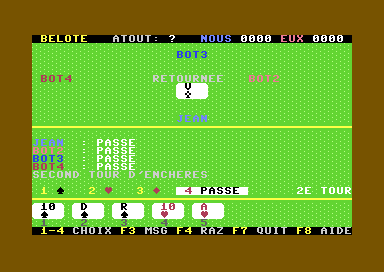
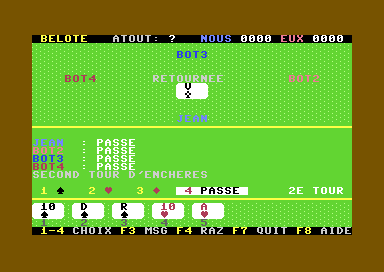
Version 2.0 : Édition rapide coupée sur Windows, captures et README (salons), v1.9 devenue v2.0
Client PC : l'Édition rapide de la console Windows est coupée pour la fenêtre
du jeu (un clic figeait l'affichage). Démos compilées avec VERSION.
Captures refaites (table, enchères, liste des salons) en français et en
anglais ; README : choisir son salon, F3 pour le serveur.

diff --git a/pc/belote_lan.py b/pc/belote_lan.py
@@ -26,7 +26,7 @@ import time
 import unicodedata
 from pathlib import Path
 
-VERSION = "1.8"
+VERSION = "2.0"
 SERVEUR_DEFAUT = "51.38.50.79"
 PORT_DEFAUT = 6464
 LARGEUR, HAUTEUR = 80, 24
@@ -1712,7 +1712,12 @@ class App:
 
 
 def activer_ansi_windows() -> None:
-    """Console Windows : séquences ANSI (VT) et sortie UTF-8."""
+    """Console Windows : séquences ANSI (VT), sortie UTF-8, sans Édition rapide.
+
+    Édition rapide : un clic dans la fenêtre commence une sélection, et Windows
+    bloque alors tout affichage du programme, qui paraît figé (le jeu s'arrête
+    pendant son tour). On la coupe pour cette fenêtre seulement.
+    """
     if os.name != "nt":
         return
     try:
@@ -1723,6 +1728,10 @@ def activer_ansi_windows() -> None:
         if k.GetConsoleMode(h, ctypes.byref(mode)):
             k.SetConsoleMode(h, mode.value | 0x0004)   # ENABLE_VIRTUAL_TERMINAL_PROCESSING
         k.SetConsoleOutputCP(65001)
+        h = k.GetStdHandle(-10)
+        if k.GetConsoleMode(h, ctypes.byref(mode)):
+            # sans ENABLE_QUICK_EDIT_MODE (0x40), avec ENABLE_EXTENDED_FLAGS (0x80)
+            k.SetConsoleMode(h, (mode.value & ~0x0040) | 0x0080)
     except Exception:
         pass
 

diff --git a/tools/duel_bots.py b/tools/duel_bots.py
@@ -40,7 +40,7 @@ def jouer(paquet: list[int], donneur: int, strategies) -> tuple[int, int] | None
     while d.phase is Phase.ENCHERES:
         p = d.joueur
         s = strategies[p % 2]
-        # Avant la v1.9, les bots ne recevaient que la couleur de la retournée.
+        # Avant la v2.0, les bots ne recevaient que la couleur de la retournée.
         ancienne = "couleur_retournee" in inspect.signature(s.choisir_enchere).parameters
         choix = s.choisir_enchere(d.mains[p], d.tour_encheres,
                                   couleur(d.retournee) if ancienne else d.retournee)

diff --git a/server/belote/bots.py b/server/belote/bots.py
@@ -72,7 +72,7 @@ def choisir_carte(main: list[int], pli: list[tuple[int, int]], atout: int, place
 
     jouees : cartes déjà posées dans la donne (pli en cours compris ou non). Le bot
     s'en souvient pour entamer la plus forte carte restante d'une couleur.
-    preneur : place du preneur (None : inconnu, comme avant la v1.9).
+    preneur : place du preneur (None : inconnu, comme avant la v2.0).
 
     Essayé puis écarté (simulation de 20 000 donnes contre l'ancienne stratégie) :
     gagner un pli avec une carte que personne ne peut battre (atout maître) plutôt

diff --git a/SPEC.md b/SPEC.md
@@ -229,7 +229,7 @@ Seats go round P0 → P1 → P2 → P3 → P0, that is SOUTH → EAST → NORTH 
 - After the start, the former host leaving does not stop the game. The new host can start a new game (F5) at the end of the game; they do not restart the game in progress.
 
 - The limit is four human connections. A fifth connection (and any after it) is refused with ERR TABLE PLEINE, then closed by the server; the C64 shows "TABLE FULL (4 PLAYERS): TRY LATER" on the connection screen. Bots do not count as human connections.
-- Server limits *(server v1.9)*, across all tables (planned for several rooms): 64 open connections at most, and 8 at most from one IP address (four C64s behind one router fit). Beyond that, the connection gets ERR TABLE PLEINE as soon as it opens, then is closed: the clients already released translate it ("try later"). Options `--max-connexions` and `--max-par-ip`.
+- Server limits *(server v2.0)*, across all tables (planned for several rooms): 64 open connections at most, and 8 at most from one IP address (four C64s behind one router fit). Beyond that, the connection gets ERR TABLE PLEINE as soon as it opens, then is closed: the clients already released translate it ("try later"). Options `--max-connexions` and `--max-par-ip`.
 
 ### 4.3 Names, replacement and presence
 
@@ -237,7 +237,7 @@ Seats go round P0 → P1 → P2 → P3 → P0, that is SOUTH → EAST → NORTH 
 
 - Reserved names: BOT and BOT followed by digits (BOT1 to BOT4 name the bots on screen). The C64 refuses them before connecting; the server answers ERR NOM RESERVE without closing the connection, and a duplicate suffix never produces such a name. The C64 shows "NAME RESERVED FOR BOTS: CHOOSE ANOTHER" and puts the cursor back on the NAME field.
 
-- Idle player (3 minutes by default, set by the host with F1): a bot takes over the seat. There are no spectators; an idle user who was released must reconnect. Before the game starts *(server v1.9)*, a human who sends nothing for 10 minutes (`--delai-attente`, in seconds) gives up their seat the same way, with the same messages: a waiting table can no longer be held by silent connections. Each table checks this for itself.
+- Idle player (3 minutes by default, set by the host with F1): a bot takes over the seat. There are no spectators; an idle user who was released must reconnect. Before the game starts *(server v2.0)*, a human who sends nothing for 10 minutes (`--delai-attente`, in seconds) gives up their seat the same way, with the same messages: a waiting table can no longer be held by silent connections. Each table checks this for itself.
 
 - On reconnection, the user gets back their seat and the hand still held by the bot if that seat is still available. If another human has it, a free bot seat is given; if there is none, the reconnection is refused.
 
@@ -247,7 +247,7 @@ Seats go round P0 → P1 → P2 → P3 → P0, that is SOUTH → EAST → NORTH 
 
 ### 4.4 Bot strategy
 
-Bots are computed by the server and only act after the start. They always play a legal move (section 5.3) *(v1.9)*:
+Bots are computed by the server and only act after the start. They always play a legal move (section 5.3) *(v2.0)*:
 
 - **Bidding**: the hand is valued for each possible trump, the turned-up card included (jack 20, 9 14, ace 11, 10 10, king 4, queen 3, 8 and 7 2; ace outside trumps 10, a 10 outside trumps guarded by its ace 5, belote 10). The bot takes if it is worth at least 35: in the first round in the turned-up card's suit, in the second in the best of the other three; otherwise it passes.
 - **Taker**: when leading, it draws the opponents' trumps with its master trump while some are still out, or with its smallest trump if it holds at least three.
@@ -257,12 +257,12 @@ Bots are computed by the server and only act after the start. They always play a
 
 These choices are measured with `tools/duel_bots.py` (each deal played twice, teams swapped): 53.9% of the points against the v1.8 bots over 200,000 deals. More careful when bidding, four bots all pass in 18% of deals (redealt). Each bot action (bid or card) is played after a fixed delay of **1 second** *(v4)*, so that players can follow.
 
-### 4.5 Rooms *(v1.9)*
+### 4.5 Rooms *(v2.0)*
 
 The server has several independent tables, the rooms, numbered 1 to 9 (9 by default, `--salons N` at startup). Each room has its own seats, host, game, bots, chat and idle check; the connection limits (4.3) apply to the whole server.
 
 - Before JOIN, a connection may ask for the list: `SALONS` gets `SALONS N`, then one line `SALON I H STATE` per room (humans seated, state of its table). It then has 5 minutes to choose, instead of the 60 seconds of a connection without JOIN.
-- `JOIN NAME I` joins room I; `JOIN NAME` without a number joins room 1, which is what clients from before v1.9 do, so they keep working. A name is only unique within its room.
+- `JOIN NAME I` joins room I; `JOIN NAME` without a number joins room 1, which is what clients from before v2.0 do, so they keep working. A name is only unique within its room.
 - Chosen room full: `ERR TABLE PLEINE`, and the connection stays open to choose another; invalid number: `ERR SALON`. A JOIN without a number on a full room 1 is refused then closed, as before.
 - The C64 and the PC client ask for the list after connecting and show it (number, players out of 4, WAITING or PLAYING); you choose with the arrows, the joystick or a digit, RETURN joins, F7 (Esc on PC) goes back to the name. A server without rooms answers ERR to SALONS: the client then sends JOIN without a number.
 - Server console: `RAZ` wipes the game of every room, `RAZ N` that of room N.
@@ -428,7 +428,7 @@ POINTS(E), SCORE(E), RESERVE ; E=0 : P0+P2, E=1 : P1+P3
 
 | Message | Trigger | Meaning / server check |
 |---|---|---|
-| SALONS *(v1.9)* | After connecting | Room list: SALONS N, then SALON I H STATE per room (4.5). |
+| SALONS *(v2.0)* | After connecting | Room list: SALONS N, then SALON I H STATE per room (4.5). |
 | JOIN NAME [I] | RETURN after typing the name (and choosing the room) | Join; name of 6 characters at most, uniqueness enforced by the server; I: room (1 if no number). |
 | LANCER | F2 | Host only, in ATTENTE; otherwise ERR CHEF SEUL or ERR DEJA LANCEE. |
 | PARAM CIBLE N *(v3)* | F1 then setting | Host only, in ATTENTE; N from 500 to 5000. |
@@ -656,9 +656,9 @@ These decisions override contradictory or older wording.
 
 ## 12. To do / open questions
 
-- **Bots** — Strengthened in v1.9 (4.4): bidding on the hand's value, trumps drawn by the taker, partner's trick loaded. Next ideas: count the fallen trumps to know when to ruff, the last-trick 10, play according to the taker's seat; to be measured with tools/duel_bots.py.
+- **Bots** — Strengthened in v2.0 (4.4): bidding on the hand's value, trumps drawn by the taker, partner's trick loaded. Next ideas: count the fallen trumps to know when to ruff, the last-trick 10, play according to the taker's seat; to be measured with tools/duel_bots.py.
 
-- **Several tables** — Done in v1.9: 9 rooms (4.5). Beyond 9, the C64 would need two columns or pages, and it is short of memory.
+- **Several tables** — Done in v2.0: 9 rooms (4.5). Beyond 9, the C64 would need two columns or pages, and it is short of memory.
 
 - **Accessibility** — A C64 Ultimate (or Ultimate 64 / Ultimate-II+) is needed: VICE does not emulate the Command Interface. A version using VICE's emulated network (RR-Net) would allow trying it without the hardware.
 
@@ -704,7 +704,8 @@ These decisions override contradictory or older wording.
 | 36 | Rejected experiment: a wood-grain border. The VIC puts a single colour in the border; a raster interrupt changed it at the start of chosen lines (horizontal brown, orange and black bands, written during horizontal blanking, bit 8 of the compare line kept in $D011). Nine veins: hardly evocative. Thirty: a nice pattern, but 30% of the CPU (interrupt entry and exit through the KERNAL, waiting for the line), the game lags. Seventeen: about 15%. Stéphan preferred to go back to the plain brown border. Lessons noted: the handler runs about 85 cycles after the trigger; at least four lines between two changes. | Nothing published; C64 client v1.8 put back on the C64. |
 | 37 | Symmetrical table, reported by Stéphan (BOT2 offset in the EAST, BOT4 well placed in the WEST): EAST card moved from column 28 to 32 (four columns from the edge like the WEST), WEST name starting at the left edge of its card, EAST name ending at the right edge of its own (a name with "(HOST)" stays in its box), NORTH and SOUTH centred on their card, end-of-round card centred (columns 10 to 29 instead of 7 to 26). SID player: the jump back to the previous interrupt vector is a direct jmp whose address is patched in at installation, instead of jmp (ancien); ld65 had flagged that vector straddling two pages ($xxFF), where the 6502 reads a wrong address (crash as soon as music plays), a trap that depended on the program's size. Checked in VICE (waiting, playing, end of round) and on the C64. | C64 client v1.8 fixed (15 November 2026), version number unchanged: nobody had tried the v1.8 PRG yet. belote_lan.prg replaced in the v1.8 release, notes updated, tag unchanged. Server and PC client unchanged. |
 | 38 | C64 client touch-ups requested by Stéphan. Log and chat (lines 12 to 19, between the yellow lines) on plain green, without the felt dots (ecran_uni(), game screen only). Trick gathering twice as slow (10 frames per card, the pile leaving in 16 or 28 frames). "ROUND 1" and "ROUND 2" end at column 38, as the bid choices start at column 1. Connection screen: only the NAME is shown, centred; F3 opens the slightly hidden server setting, two fields IP (29 characters) and PORT (digits, 6464 if empty); key bar "RETURN CONFIRM  F1 LANGUAGE  F3 SERVER"; languages centred. Memory: the program overflowed by 28 bytes (the real margin was 48 bytes, not 5.5 KB as noted); cc65's sprintf (1.3 KB with vsnprintf) replaced by fmt() in ecran.c (%s %c %u %d, width, 0 and -), screens identical to the pixel in VICE; about 430 bytes of margin. Game on the public server the same day, Stéphan and Claude against GRAF (Windows client) and a bot: 1051 to 609; GRAF's client froze during his turn and was restarted, most likely the Windows console's QuickEdit mode (a click in the window blocks output): a fix is possible, judged unnecessary for now. | C64 client v1.8 (15 November 2026), version number unchanged: belote_lan.prg replaced in the v1.8 release, notes updated, tag unchanged. Server and PC client unchanged. |
-| 39 | Server flaws found on 15 November (after connection scans on the public server), fixed with several rooms in mind. Unlimited connections: 3000 connections from a single IP were all accepted; the whole server (all tables together) now accepts 64 at most, and 8 at most per IP (four C64s behind one router fit), Limites class in __main__.py, options --max-connexions and --max-par-ip. Beyond that, ERR TABLE PLEINE as soon as the connection opens, then it is closed: a separate code (SERVEUR PLEIN) would have shown "name refused" on the PC client already released. Replayed: 8 accepted, 2992 refused. Squatted table: four silent JOINs held the table with no limit (nobody was judged idle before the game started); in ATTENTE, each table now gives back the seat of a human silent for 10 minutes (--delai-attente), with the messages of idleness in play, which the clients already translate. Clients unchanged. 3 tests added. | Server v1.9 (15 November 2026), committed, not yet published. |
+| 39 | Server flaws found on 15 November (after connection scans on the public server), fixed with several rooms in mind. Unlimited connections: 3000 connections from a single IP were all accepted; the whole server (all tables together) now accepts 64 at most, and 8 at most per IP (four C64s behind one router fit), Limites class in __main__.py, options --max-connexions and --max-par-ip. Beyond that, ERR TABLE PLEINE as soon as the connection opens, then it is closed: a separate code (SERVEUR PLEIN) would have shown "name refused" on the PC client already released. Replayed: 8 accepted, 2992 refused. Squatted table: four silent JOINs held the table with no limit (nobody was judged idle before the game started); in ATTENTE, each table now gives back the seat of a human silent for 10 minutes (--delai-attente), with the messages of idleness in play, which the clients already translate. Clients unchanged. 3 tests added. | Server v2.0 (15 November 2026), committed, not yet published. |
 | 40 | Several rooms, on the multi-salon branch: 9 numbered rooms (--salons 1 to 9), each a full Table, dispatched by the Salons class (server/belote/salons.py). Compatible protocol: SALONS gives the list (SALONS N, then SALON I H STATE), JOIN NAME I picks the room, JOIN NAME without a number goes to room 1 (older clients); chosen room full: ERR TABLE PLEINE without closing; ERR SALON for an invalid number; RAZ N on the console. C64: after the name, the room list (number, players out of 4, WAITING or PLAYING) with the joystick, the arrows or a digit, F7 to go back; with a server without rooms (ERR to SALONS), JOIN without a number; touche_connexion() shared by the name and room screens, which also watches the connection. Memory: C stack measured in VICE (RAM filled with $55, VICE's random noise turned off) at 58 bytes at most in every scenario, cut from 1.5 KB to 512 bytes; 44 bytes left. Stéphan's try: cut off after 60 s on the list (no-JOIN delay); a connection that asked for SALONS now has 5 minutes to choose (DELAI_LISTE), and the messages under the name are centred. PC client: the same room screen (Esc to go back). Demo scenario 8 (room list). 17 tests added. | multi-salon branch (15 November 2026), tried on the C64 with a local server. |
 | 41 | Stronger bots, on the bots branch. Tool tools/duel_bots.py: the current bots against those of a git version (main by default), each deal played twice, teams swapped, to remove the luck of the cards (4,000 deals a second). Bidding: choisir_enchere gets the turned-up card (not just its suit) and values the hand for each trump (jack 20, 9 14, ace 11..., ace outside trumps 10, belote 10); takes from 35 (tried from 20 to 50: 50 lost, 35 the best), +1.8% of points. Play: load the partner's trick when last (+1.3%), then third when the partner's card cannot be beaten in its suit, even at the risk of a ruff (+0.8%); the taker draws with its master trump, or its smallest with three trumps (+0.2% over 200,000 deals; the master trump alone gained nothing). Result: 53.9% of the points against the v1.8 bots (+13 points per deal, 200,000 deals). Among four bots, 18% of deals redealt (the old ones almost always took). choisir_carte also gets the taker. Bot tests rewritten (8). | bots branch (15 November 2026), server only. |
 | 42 | C64 memory: 45 bytes were left. The title image (4.4 KB) was only used at startup but took memory for good: it moves, with its decompressor, into cc65's ONCE segment; an assembler constructor (.constructor in c64/titre_dec.s) turns the screen off, sets the VIC bank, the brown border and green background, and decompresses the image at load time, before crt0 clears the variables; afterwards that space is used by the variables. titre() is called before ecran_init() (which overwrites the colour matrix), and ecran_init() turns the screen back on. Title screen, table and room list identical to the pixel in VICE. Margins: 1.7 KB for code (end of the ONCE segment below $C000), 4.7 KB for variables. Also tried: -Cl (static locals, re-initialised at each call), only +211 bytes, not kept. tools/titre.py generates the image into ONCE. | bots branch (15 November 2026). |
+| 43 | Version 2.0, to be spread: groups entries 39 to 42 (server flaws, 9 rooms, stronger bots, C64 memory). PC client: the Windows console's QuickEdit is turned off for the game window (a click froze the output, as for GRAF). Demos built with the version number (the top bar showed "V?"). Screenshots retaken in VICE, in French and English: table (chat on plain green), bidding, and the room list, added to the READMEs with how to choose a room. | C64 client, PC client and server v2.0 (15 November 2026). GitHub release v2.0; public server to be updated by Stéphan. |

diff --git a/README.md b/README.md
@@ -11,9 +11,9 @@ bidding on a turned-up card. The rules are built in (F8 shows them on the C64).
 
 ![Title screen](docs/titre.png)
 
-| Game table | Bidding, second round |
-|---|---|
-| ![Table](docs/table-en.png) | ![Bidding](docs/bidding-en.png) |
+| Choosing a room | Game table | Bidding, second round |
+|---|---|---|
+| ![Rooms](docs/salons-en.png) | ![Table](docs/table-en.png) | ![Bidding](docs/bidding-en.png) |
 
 ## What's inside
 
@@ -51,10 +51,12 @@ To start it:
 - or send it from a PC on the same network, if the Ultimate's REST API is enabled:
   `curl -X POST --data-binary @belote_lan.prg http://<ultimate-ip>/v1/runners:run_prg`.
 
-Press a key on the title screen, then **F1** on the connection screen to pick your language.
+Press a key on the title screen, then **F1** on the connection screen to pick your language. Type
+your name and press RETURN: the list of the server's rooms appears; pick one (joystick, arrows or
+a digit) and RETURN to sit down. **F3** on the connection screen changes the server (IP, PORT).
 
-**Limits**: the public server has a single 4-seat table; if it is full ("TABLE FULL"), try again
-later or run your own server (below). VICE cannot connect: it does not emulate the Ultimate's
+**Limits**: the public server has 9 rooms of 4 seats; if the room you pick is full ("TABLE FULL"),
+choose another one or run your own server (below). VICE cannot connect: it does not emulate the Ultimate's
 Command Interface. No C64 Ultimate? Use the PC client (below).
 
 **Your own server, without the repository**: the release also holds `belote-serveur-vX.Y.tar.gz`

diff --git a/README.fr.md b/README.fr.md
@@ -11,9 +11,9 @@ retournée. Les règles sont intégrées (F8 les affiche sur le C64).
 
 ![Écran titre](docs/titre.png)
 
-| Table de jeu | Enchères, second tour |
-|---|---|
-| ![Table](docs/table.png) | ![Enchères](docs/encheres.png) |
+| Choix du salon | Table de jeu | Enchères, second tour |
+|---|---|---|
+| ![Salons](docs/salons.png) | ![Table](docs/table.png) | ![Enchères](docs/encheres.png) |
 
 ## Ce qu'il y a dedans
 
@@ -52,9 +52,12 @@ Pour le lancer :
   `curl -X POST --data-binary @belote_lan.prg http://<ip-de-l-ultimate>/v1/runners:run_prg`.
 
 Appuyez sur une touche à l'écran titre, puis sur **F1** à l'écran de connexion pour choisir la langue.
+Tapez votre nom puis RETURN : la liste des salons du serveur s'affiche ; choisissez-en un (joystick,
+flèches ou chiffre) et RETURN pour vous asseoir. **F3** à l'écran de connexion change le serveur (IP,
+PORT).
 
-**Limites** : le serveur public n'a qu'une table de 4 places ; si elle est pleine (« TABLE PLEINE »),
-réessayez plus tard ou lancez votre propre serveur (ci-dessous). VICE ne peut pas se connecter : il
+**Limites** : le serveur public a 9 salons de 4 places ; si celui que vous choisissez est plein
+(« TABLE PLEINE »), prenez-en un autre ou lancez votre propre serveur (ci-dessous). VICE ne peut pas se connecter : il
 n'émule pas la Command Interface de l'Ultimate. Sans C64 Ultimate, prenez le client PC (ci-dessous).
 
 **Votre propre serveur, sans le dépôt** : la release contient aussi `belote-serveur-vX.Y.tar.gz`

diff --git a/protocol.fr.md b/protocol.fr.md
@@ -57,10 +57,10 @@ Autres cas :
 
 - Toute commande avant JOIN (sauf SALONS et LEAVE), ou un second JOIN, reçoit `ERR NOM`.
 - `JOIN NOM I` avec un salon plein reçoit `ERR TABLE PLEINE` sans fermeture (en choisir un autre) ;
-  numéro hors de 1 à N : `ERR SALON` (v1.9).
-- Table pleine, ou trop de connexions ouvertes (64 en tout, 8 depuis une même IP, serveur v1.9) :
+  numéro hors de 1 à N : `ERR SALON` (v2.0).
+- Table pleine, ou trop de connexions ouvertes (64 en tout, 8 depuis une même IP, serveur v2.0) :
   `ERR TABLE PLEINE`, puis le serveur ferme la connexion ; dans le second cas, dès l'ouverture.
-- Avant le lancement, un joueur muet pendant 10 minutes rend sa place (serveur v1.9) :
+- Avant le lancement, un joueur muet pendant 10 minutes rend sa place (serveur v2.0) :
   `INFO INACTIF : PLACE RENDUE AU BOT`, puis fermeture, comme pour l'inactivité en jeu.
 - Enchère mal placée à son tour (mauvaise couleur, ou ENCH pendant le jeu) et COUP pendant les
   enchères reçoivent `ERR COUP REFUSE`.

diff --git a/protocol.md b/protocol.md
@@ -63,10 +63,10 @@ Other cases:
 
 - Any command before JOIN (except SALONS and LEAVE), or a second JOIN, gets `ERR NOM`.
 - `JOIN NAME I` on a full room gets `ERR TABLE PLEINE` without closing (choose another);
-  a number outside 1 to N: `ERR SALON` (v1.9).
-- Table full, or too many open connections (64 in all, 8 from one IP, server v1.9):
+  a number outside 1 to N: `ERR SALON` (v2.0).
+- Table full, or too many open connections (64 in all, 8 from one IP, server v2.0):
   `ERR TABLE PLEINE`, then the server closes the connection; in the second case, as soon as it opens.
-- Before the game starts, a player silent for 10 minutes gives up their seat (server v1.9):
+- Before the game starts, a player silent for 10 minutes gives up their seat (server v2.0):
   `INFO INACTIF : PLACE RENDUE AU BOT`, then the connection is closed, as for idleness in play.
 - A misplaced bid on your turn (wrong suit, or ENCH during play) and COUP during bidding get
   `ERR COUP REFUSE`.

diff --git a/CLAUDE.md b/CLAUDE.md
@@ -48,7 +48,7 @@ francophones, anglais sous les noms principaux (README.md, SPEC.md, protocol.md,
 
 ## Mémoire du client (banque VIC 3)
 - Programme sous $C000 (__HIMEM__ dans le Makefile), pile C de 512 octets (__STACKSIZE__, mesurée à
-  58 octets au plus dans VICE en v1.9). L'image titre et son décompresseur sont dans le segment ONCE :
+  58 octets au plus dans VICE en v2.0). L'image titre et son décompresseur sont dans le segment ONCE :
   un constructeur (c64/titre_dec.s) la décompresse au chargement, avant zerobss et main, puis la place
   sert aux variables. Deux marges dans build/belote_lan.map : fin du BSS sous $BE00 (environ 4,7 Ko) et
   fin du segment ONCE sous $C000 (environ 1,7 Ko : la vraie limite pour le code) ; au-delà, ld65 refuse.
